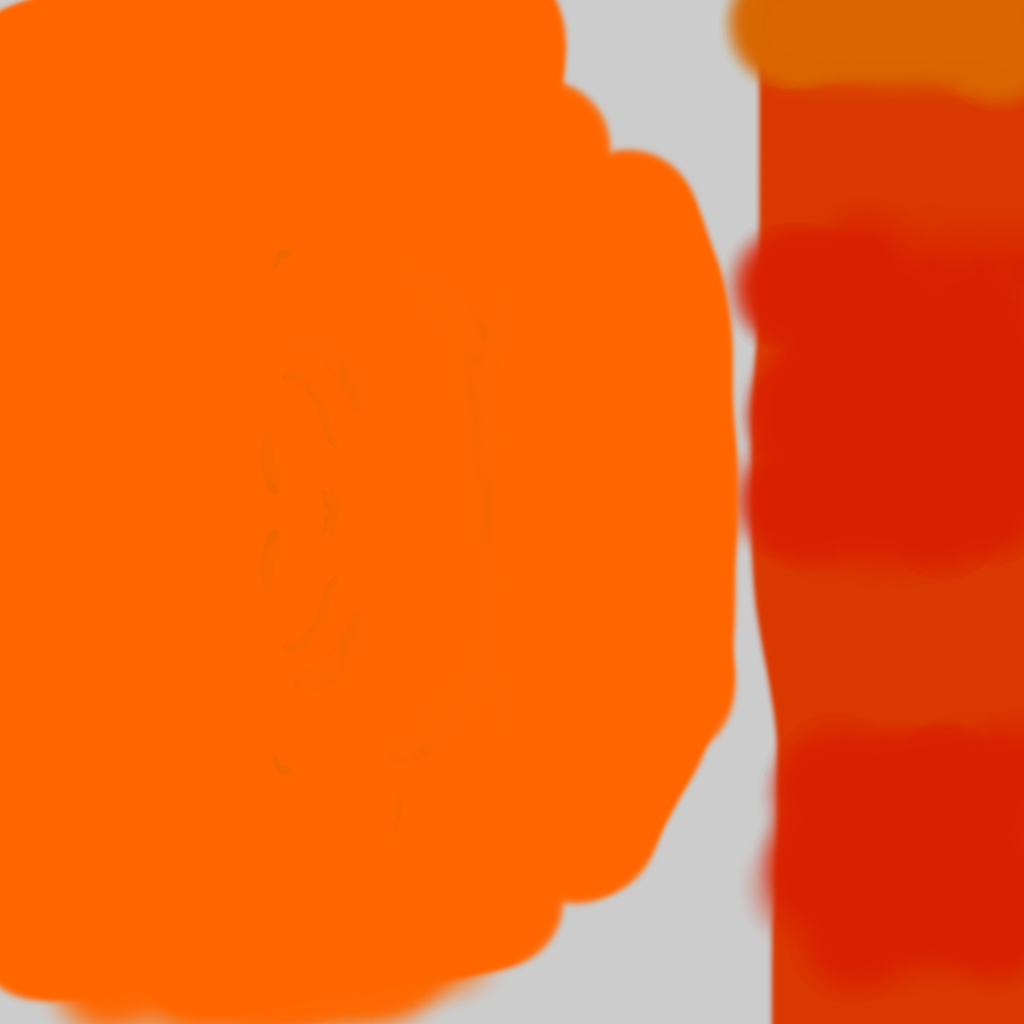
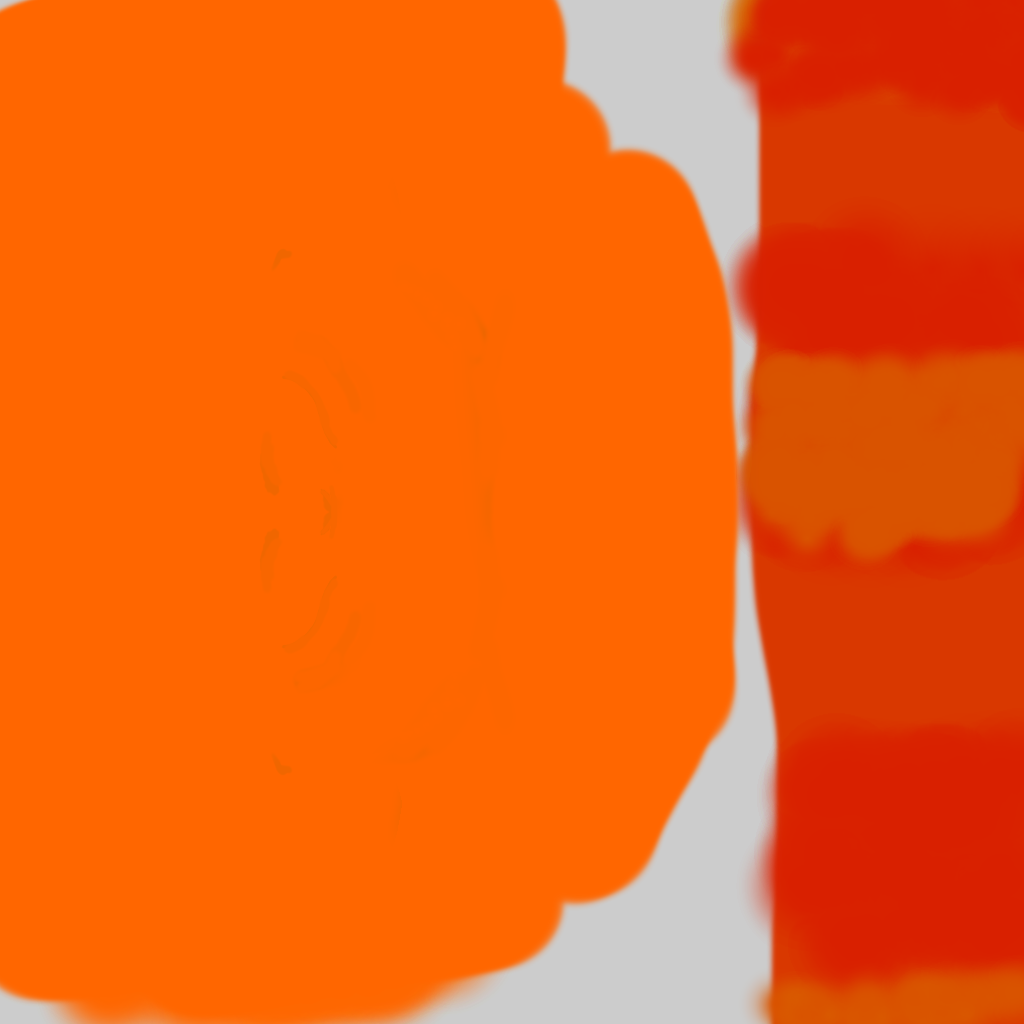
Signed-off-by: Dexter Reese <[email redacted]>

Changed region(s): [[0.7188, 0.3438, 1.0, 0.5625], [0.6875, 0.0, 1.0, 0.125], [0.7188, 0.9375, 1.0, 1.0]]

diff --git a/exercises/exercu8/renderer/HairRenderPass.cpp b/exercises/exercu8/renderer/HairRenderPass.cpp
@@ -5,8 +5,9 @@
 #include <ituGL/camera/Camera.h>
 
 #include <vector>
+#include <iostream>
 
-HairRenderPass::HairRenderPass(Renderer& renderer, GLuint strandBuffer)
+HairRenderPass::HairRenderPass(Renderer& renderer, std::shared_ptr<Model> headModel, GLuint strandBuffer)
 	: m_strandBuffer(strandBuffer)
 {
 	//InitShader();
@@ -14,6 +15,29 @@ HairRenderPass::HairRenderPass(Renderer& renderer, GLuint strandBuffer)
 	m_segments = 12;
 	InitShader(renderer);
 	glGenVertexArrays(1, &m_dummyVAO);
+
+    //get the textures
+    std::shared_ptr<TextureObject> tex;
+    headModel->GetMaterial(0).GetUniformValue("ColorTexture", tex);
+    m_diffuseTexture = std::dynamic_pointer_cast<Texture2DObject>(tex);
+
+    headModel->GetMaterial(0).GetUniformValue("NormalTexture", tex);
+    m_normalTexture = std::dynamic_pointer_cast<Texture2DObject>(tex);
+
+    headModel->GetMaterial(0).GetUniformValue("SpecularTexture", tex);
+    m_armTexture = std::dynamic_pointer_cast<Texture2DObject>(tex);
+    headModel->GetMaterial(0).GetUniformValue("EnvironmentTexture", tex);
+    m_environmentTexture = std::dynamic_pointer_cast<TextureCubemapObject>(tex);
+
+    m_environmentMaxLod = std::make_shared<float>();
+    float tap;
+    headModel->GetMaterial(0).GetUniformValues("EnvironmentMaxLod", std::span<float>(&tap, 1));
+    *m_environmentMaxLod = tap;
+
+    m_color = std::make_shared<glm::vec3>();
+    glm::vec3 tmp;
+    headModel->GetMaterial(0).GetUniformValues("Color", std::span<glm::vec3>(&tmp, 1));
+    *m_color = tmp;
 }
 
 void HairRenderPass::InitShader(Renderer& renderer)
@@ -25,22 +49,53 @@ void HairRenderPass::InitShader(Renderer& renderer)
 
 
     std::vector<const char*> fragmentShaderPaths;
-    fragmentShaderPaths.push_back("shaders/version430.glsl");
-    //fragmentShaderPaths.push_back("shaders/utils.glsl");
-    //fragmentShaderPaths.push_back("shaders/lambert-ggx.glsl");
-    //fragmentShaderPaths.push_back("shaders/lighting.glsl");
-    fragmentShaderPaths.push_back("shaders/hair_fragment.frag");
+    fragmentShaderPaths.push_back("shaders/version330.glsl");
+    fragmentShaderPaths.push_back("shaders/utils.glsl");
+    fragmentShaderPaths.push_back("shaders/lambert-ggx.glsl");
+    fragmentShaderPaths.push_back("shaders/lighting.glsl");
+    fragmentShaderPaths.push_back("shaders/hair_render.frag");
     Shader fragmentShader = ShaderLoader(Shader::FragmentShader).Load(fragmentShaderPaths);
 
     m_shaderProgramPtr = std::make_shared<ShaderProgram>();
     m_shaderProgramPtr->Build(vertexShader, fragmentShader);
 
-    //ShaderProgram::Location viewProjMatrixLocation = m_shaderProgramPtr->GetUniformLocation("ViewProjMatrix");
-    //ShaderProgram::Location segmentsLocation = m_shaderProgramPtr->GetUniformLocation("segments");
+    ShaderProgram::Location worldMatrixLocation = m_shaderProgramPtr->GetUniformLocation("WorldMatrix");
+    ShaderProgram::Location viewProjMatrixLocation = m_shaderProgramPtr->GetUniformLocation("ViewProjMatrix");
+    ShaderProgram::Location cameraPositionLocation = m_shaderProgramPtr->GetUniformLocation("CameraPosition");
+    ShaderProgram::Location segmentsLocation = m_shaderProgramPtr->GetUniformLocation("Segments");
+    //texture locations
+    ShaderProgram::Location diffuseLocation = m_shaderProgramPtr->GetUniformLocation("ColorTexture");
+    ShaderProgram::Location normalLocation = m_shaderProgramPtr->GetUniformLocation("NormalTexture");
+    ShaderProgram::Location specularLocation = m_shaderProgramPtr->GetUniformLocation("SpecularTexture");
+    //environment locations
+    ShaderProgram::Location environmentLocation = m_shaderProgramPtr->GetUniformLocation("EnvironmentTexture");
+    ShaderProgram::Location mLodLocation = m_shaderProgramPtr->GetUniformLocation("EnvironmentMaxLod");
+    ShaderProgram::Location colorLocation = m_shaderProgramPtr->GetUniformLocation("Color");
 
-    m_viewProjLocation = m_shaderProgramPtr->GetUniformLocation("ViewProjMatrix");
-    m_segmentsLocation = m_shaderProgramPtr->GetUniformLocation("Segments");
-    m_cameraPositionLocation = m_shaderProgramPtr->GetUniformLocation("CameraPosition");
+    
+
+    // Register shader with renderer
+    renderer.RegisterShaderProgram(m_shaderProgramPtr,
+        [=](const ShaderProgram& shaderProgram, const glm::mat4& worldMatrix, const Camera& camera, bool cameraChanged)
+        {
+            if (cameraChanged)
+            {
+                shaderProgram.SetUniform(cameraPositionLocation, camera.ExtractTranslation());
+                shaderProgram.SetUniform(viewProjMatrixLocation, camera.GetViewProjectionMatrix());
+                shaderProgram.SetUniform(segmentsLocation, m_segments);
+                shaderProgram.SetTexture(diffuseLocation, 0, *m_diffuseTexture);
+                shaderProgram.SetTexture(normalLocation, 1, *m_normalTexture);
+                shaderProgram.SetTexture(specularLocation, 2, *m_armTexture);
+                shaderProgram.SetTexture(environmentLocation, 3, *m_environmentTexture);
+                shaderProgram.SetUniform(mLodLocation, *m_environmentMaxLod);
+                shaderProgram.SetUniform(colorLocation, *m_color);
+
+            }
+            shaderProgram.SetUniform(worldMatrixLocation, worldMatrix);
+        },
+        renderer.GetDefaultUpdateLightsFunction(*m_shaderProgramPtr)
+    );
+
     
 }
 
@@ -48,7 +103,8 @@ void HairRenderPass::Render()
 {
     Renderer& renderer = GetRenderer();
     Camera camera = renderer.GetCurrentCamera();
-
+    // get lights
+    const auto& lights = renderer.GetLights();
 
     glBindVertexArray(m_dummyVAO);
 
@@ -56,13 +112,20 @@ void HairRenderPass::Render()
 
     glBindBufferBase(GL_SHADER_STORAGE_BUFFER, 0, m_strandBuffer);
 
-    // Set uniforms
-    m_shaderProgramPtr->SetUniform(m_viewProjLocation, camera.GetViewProjectionMatrix());
-    m_shaderProgramPtr->SetUniform(m_segmentsLocation, m_segments);
-    m_shaderProgramPtr->SetUniform(m_cameraPositionLocation, camera.ExtractTranslation());
-    
-    // Draw
-    glDrawArraysInstanced(GL_TRIANGLE_STRIP, 0, m_segments * 2, m_strandCount);
-    glBindVertexArray(0);
+    //just picking 0 is a little hacky, I should find the real location later
+    renderer.UpdateTransforms(m_shaderProgramPtr, 0);
+
+    //for all lights
+    bool first = true;
+    unsigned int lightIndex = 0;
+    while (renderer.UpdateLights(m_shaderProgramPtr, lights, lightIndex))
+    {
+        // Set the renderstates
+        renderer.SetLightingRenderStates(first);
+        // Draw
+        glDrawArraysInstanced(GL_TRIANGLE_STRIP, 0, m_segments * 2, m_strandCount);
+
+        first = false;
+    }
     
 }

diff --git a/exercises/exercu8/SceneViewerApplication.cpp b/exercises/exercu8/SceneViewerApplication.cpp
@@ -183,12 +183,12 @@ void SceneViewerApplication::InitializeMaterial()
 {
     // Load and build shader
     std::vector<const char*> vertexShaderPaths;
-    vertexShaderPaths.push_back("shaders/version430.glsl");
+    vertexShaderPaths.push_back("shaders/version330.glsl");
     vertexShaderPaths.push_back("shaders/default.vert");
     Shader vertexShader = ShaderLoader(Shader::VertexShader).Load(vertexShaderPaths);
 
     std::vector<const char*> fragmentShaderPaths;
-    fragmentShaderPaths.push_back("shaders/version430.glsl");
+    fragmentShaderPaths.push_back("shaders/version330.glsl");
     fragmentShaderPaths.push_back("shaders/utils.glsl");
     fragmentShaderPaths.push_back("shaders/lambert-ggx.glsl");
     fragmentShaderPaths.push_back("shaders/lighting.glsl");
@@ -246,7 +246,7 @@ void SceneViewerApplication::InitializeModels()
     m_skyboxTexture->GetParameter(TextureObject::ParameterFloat::MaxLod, maxLod);
     TextureCubemapObject::Unbind();
 
-    m_defaultMaterial->SetUniformValue("AmbientColor", glm::vec3(0.25f));
+    //m_defaultMaterial->SetUniformValue("AmbientColor", glm::vec3(0.25f)); <- I think this was for blinn-phong...
 
     m_defaultMaterial->SetUniformValue("EnvironmentTexture", m_skyboxTexture);
     m_defaultMaterial->SetUniformValue("EnvironmentMaxLod", maxLod);
@@ -276,13 +276,13 @@ void SceneViewerApplication::InitializeModels()
 
     // Load model
     auto headPath = m_use_compute ? "models/head/head.obj" : "models/head/headdy.obj";
-    headModel = loader.LoadShared(headPath);
-    m_scene.AddSceneNode(std::make_shared<SceneModel>("thing", headModel));
+    m_headModel = loader.LoadShared(headPath);
+    m_scene.AddSceneNode(std::make_shared<SceneModel>("thing", m_headModel));
 
     // Add 'Extra Textures'
 
     // PaintTexture is an empty texture that gets painted onto in the PaintRenderPass
-    ShaderProgram::Location paintLocation = headModel->GetMaterial(0).GetShaderProgram()->GetUniformLocation("PaintTexture");
+    ShaderProgram::Location paintLocation = m_headModel->GetMaterial(0).GetShaderProgram()->GetUniformLocation("PaintTexture");
 
     std::shared_ptr<Texture2DObject> paintTexture = std::make_shared<Texture2DObject>();
     paintTexture->Bind();
@@ -293,13 +293,13 @@ void SceneViewerApplication::InitializeModels()
     paintTexture->SetParameter(TextureObject::ParameterEnum::MagFilter, GL_NEAREST);
 
     // Hair'grow'Texture is a texture that outlines hair and beard grow zones on the mesh
-    ShaderProgram::Location hairLocation = headModel->GetMaterial(0).GetShaderProgram()->GetUniformLocation("HairTexture");
+    ShaderProgram::Location hairLocation = m_headModel->GetMaterial(0).GetShaderProgram()->GetUniformLocation("HairTexture");
     std::shared_ptr<Texture2DObject> hairGrowthTexture = std::make_shared<Texture2DObject>(loader.GetTexture2DLoader().Load("models/head/HairZones.png"));
  
-    int count = headModel->GetMaterialCount();
+    int count = m_headModel->GetMaterialCount();
     for (int i = 0; i < count; i++) {
-        headModel->GetMaterial(i).SetUniformValue(paintLocation, paintTexture);
-        headModel->GetMaterial(i).SetUniformValue(hairLocation, hairGrowthTexture);
+        m_headModel->GetMaterial(i).SetUniformValue(paintLocation, paintTexture);
+        m_headModel->GetMaterial(i).SetUniformValue(hairLocation, hairGrowthTexture);
 
     }
     m_defaultMaterial->SetUniformValue(paintLocation, paintTexture);
@@ -313,10 +313,10 @@ void SceneViewerApplication::InitializeRenderer()
 {
     m_renderer.AddRenderPass(std::make_unique<SkyboxRenderPass>(m_skyboxTexture));
     if (m_use_compute) {
-        std::unique_ptr<HairComputePass> hairComputePass = std::make_unique<HairComputePass>(headModel);
+        std::unique_ptr<HairComputePass> hairComputePass = std::make_unique<HairComputePass>(m_headModel);
         GLuint strandBuffer = hairComputePass->GetStrandBuffer();
         m_renderer.AddRenderPass(std::move(hairComputePass));
-        m_renderer.AddRenderPass(std::make_unique<HairRenderPass>(m_renderer,strandBuffer));
+        m_renderer.AddRenderPass(std::make_unique<HairRenderPass>(m_renderer, m_headModel, strandBuffer));
     }
     m_renderer.AddRenderPass(std::make_unique<ForwardRenderPass>());
 }

diff --git a/exercises/exercu8/renderer/HairRenderPass.h b/exercises/exercu8/renderer/HairRenderPass.h
@@ -1,7 +1,9 @@
 #include <ituGL/shader/ShaderProgram.h>
 #include <ituGL/renderer/RenderPass.h>
+#include <ituGL/geometry/Model.h>
 
 #include <ituGL/texture/Texture2DObject.h>
+#include <ituGL/texture/TextureCubemapObject.h>
 #include <ituGL/texture/FramebufferObject.h>
 #include <memory>
 class Renderer;
@@ -9,7 +11,7 @@ class Renderer;
 class HairRenderPass : public RenderPass
 {
 public:
-	HairRenderPass(Renderer& renderer, GLuint strandBuffer);
+	HairRenderPass(Renderer& renderer, std::shared_ptr<Model> headModel, GLuint strandBuffer);
 	void InitShader(Renderer& renderer);
 
 	void Render() override;
@@ -18,12 +20,19 @@ private:
 	GLuint m_strandBuffer;
 	GLuint m_dummyVAO;
 
-	int m_strandCount = 0;
-	int m_segments = 0;
+	int m_strandCount;
+	int m_segments;
 
 	std::shared_ptr<ShaderProgram> m_shaderProgramPtr;
 
 	ShaderProgram::Location m_viewProjLocation;
 	ShaderProgram::Location m_segmentsLocation;
 	ShaderProgram::Location m_cameraPositionLocation;
+
+	std::shared_ptr<Texture2DObject> m_diffuseTexture;
+	std::shared_ptr<Texture2DObject> m_normalTexture;
+	std::shared_ptr<Texture2DObject> m_armTexture;
+	std::shared_ptr<TextureCubemapObject> m_environmentTexture;
+	std::shared_ptr<float> m_environmentMaxLod;
+	std::shared_ptr<glm::vec3> m_color;
 };

diff --git a/exercises/exercu8/SceneViewerApplication.h b/exercises/exercu8/SceneViewerApplication.h
@@ -59,6 +59,6 @@ private:
 
     std::shared_ptr<Painter> m_painter;
     std::shared_ptr<Texture2DObject> m_target;
-    std::shared_ptr<Model> headModel;
+    std::shared_ptr<Model> m_headModel;
 
 };